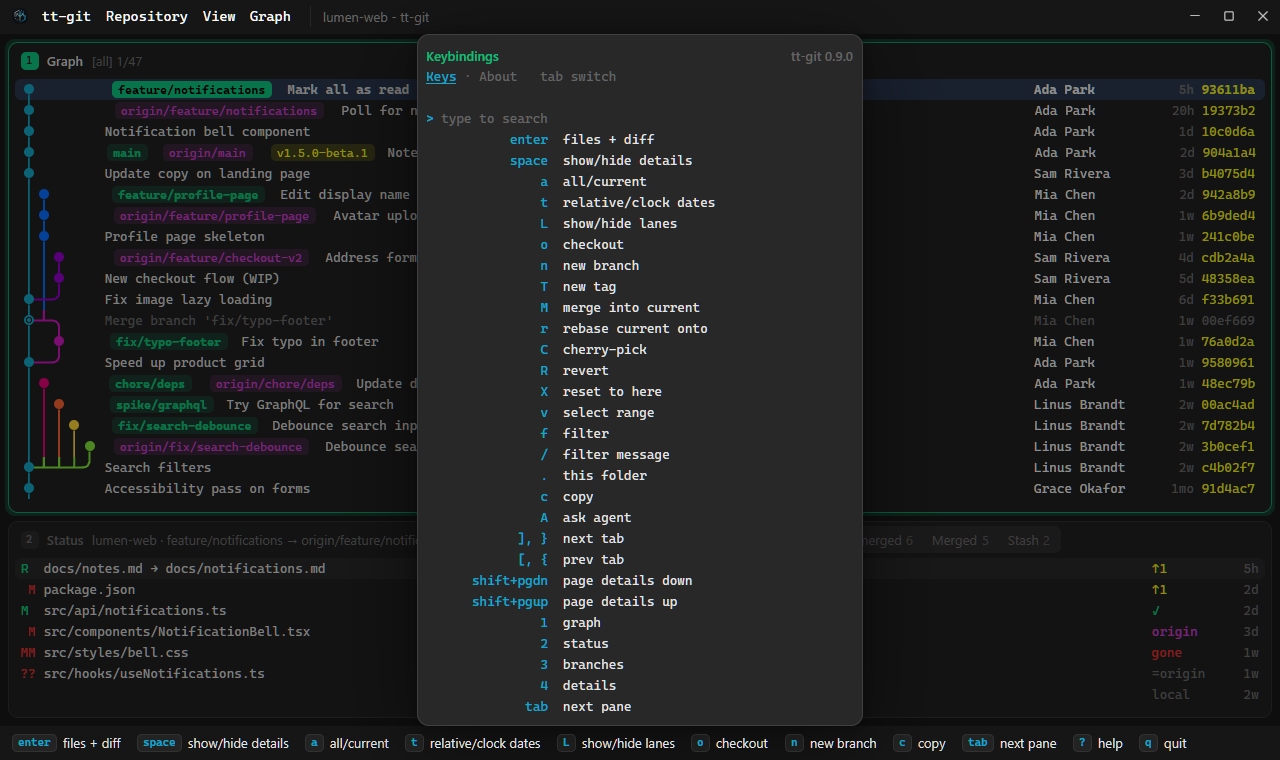
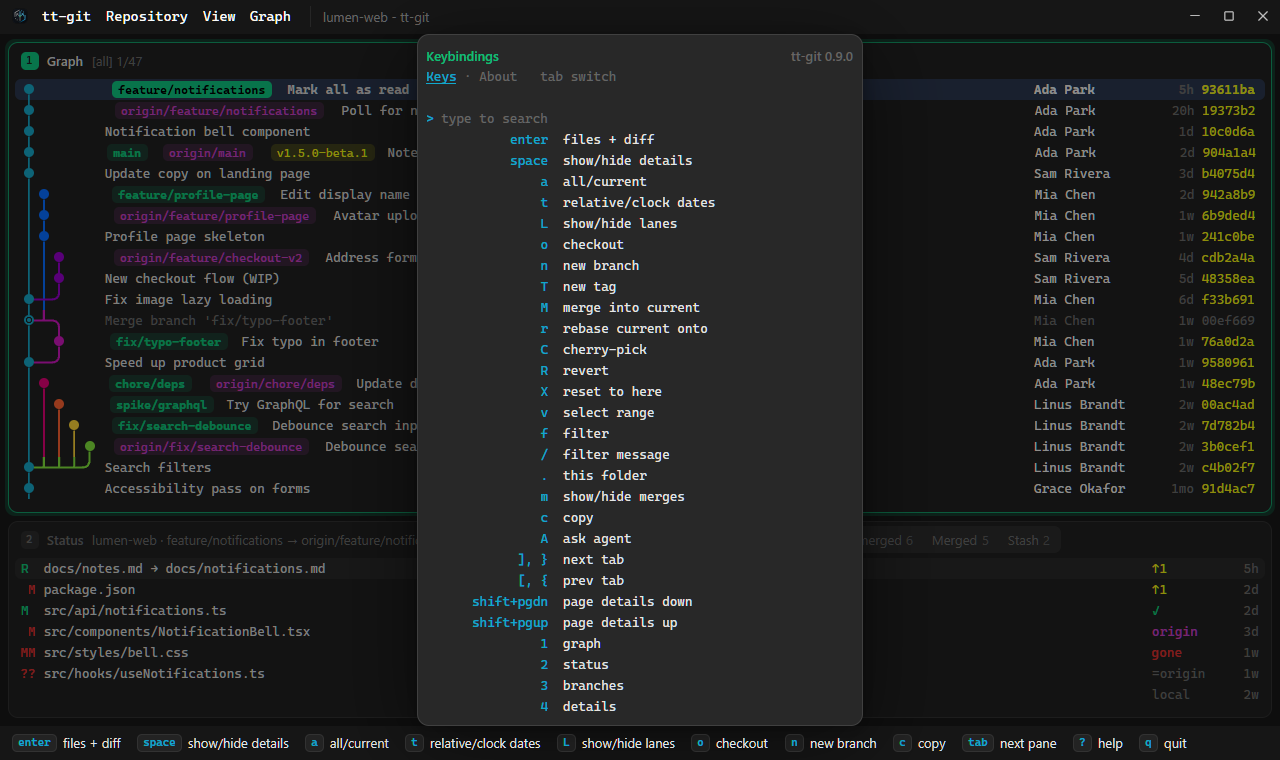
docs(graph): Describe hiding merge commits with m

Changed region(s): [[0.375, 0.6355, 0.5312, 0.9382]]

diff --git a/docs/configuration.md b/docs/configuration.md
@@ -248,7 +248,7 @@ Write keys as `q`, `Q`, `shift+q`, `ctrl+c`, `alt+enter`, `shift+tab`,
 | `move_up`, `move_down`, `page_up`, `page_down`, `top`, `bottom` | `k`/`↑`, `j`/`↓`, `ctrl+u`, `ctrl+d`, `g`, `G` | global |
 | `refresh`, `push`, `pull` | `ctrl+r`, `P`, `p` | global |
 | `undo` | `z` | global |
-| `toggle_scope`, `toggle_dates`, `toggle_lanes`, `checkout`, `filter`, `new_branch`, `new_tag`, `merge`, `rebase`, `cherry_pick`, `revert`, `reset`, `select_range`, `agent` | `a`, `t`, `L`, `o`, `f`, `n`, `T`, `M`, `r`, `C`, `R`, `X`, `v`, `A` | graph |
+| `toggle_scope`, `toggle_dates`, `toggle_lanes`, `toggle_merges`, `checkout`, `filter`, `new_branch`, `new_tag`, `merge`, `rebase`, `cherry_pick`, `revert`, `reset`, `select_range`, `agent` | `a`, `t`, `L`, `m`, `o`, `f`, `n`, `T`, `M`, `r`, `C`, `R`, `X`, `v`, `A` | graph |
 | `filter_message` | `/` | graph |
 | `filter_folder` | `.` | graph, status |
 | `checkout`, `new_branch`, `new_tag`, `delete_branch`, `rename_branch`, `fetch`, `prune_gone`, `fast_forward`, `filter`, `merge`, `rebase`, `reset` | `enter`/`space`, `n`, `T`, `d`, `R`, `f`, `D`, `F`, `/`, `M`, `r`, `X` | branches |

diff --git a/README.md b/README.md
@@ -139,6 +139,7 @@ command palette, which lists built-in commands and plugin actions.
 | | `a` | all branches ↔ current branch |
 | | `t` | dates as age (`3h`) ↔ local date and time (`2026-10-17 01:30 PM`) |
 | | `L` | hide / show the lanes, so each row starts with its badges and subject |
+| | `m` | hide / show merge commits; the lines through them still join up |
 | | `f` | filter: only one author's commits, or the commits that changed a file or folder (`tab` in the panel switches between the two; both can be set) |
 | | `/` | filter by a regex on the commit subject, such as `^feat` (`tab` in the prompt fills in the next of the repo's most used prefixes; `ctrl+t` searches the whole message or the diff, `git log -G`, instead) |
 | | `.` | only the commits that changed the folder tt-git was started in (Status narrows too); again for everything |
